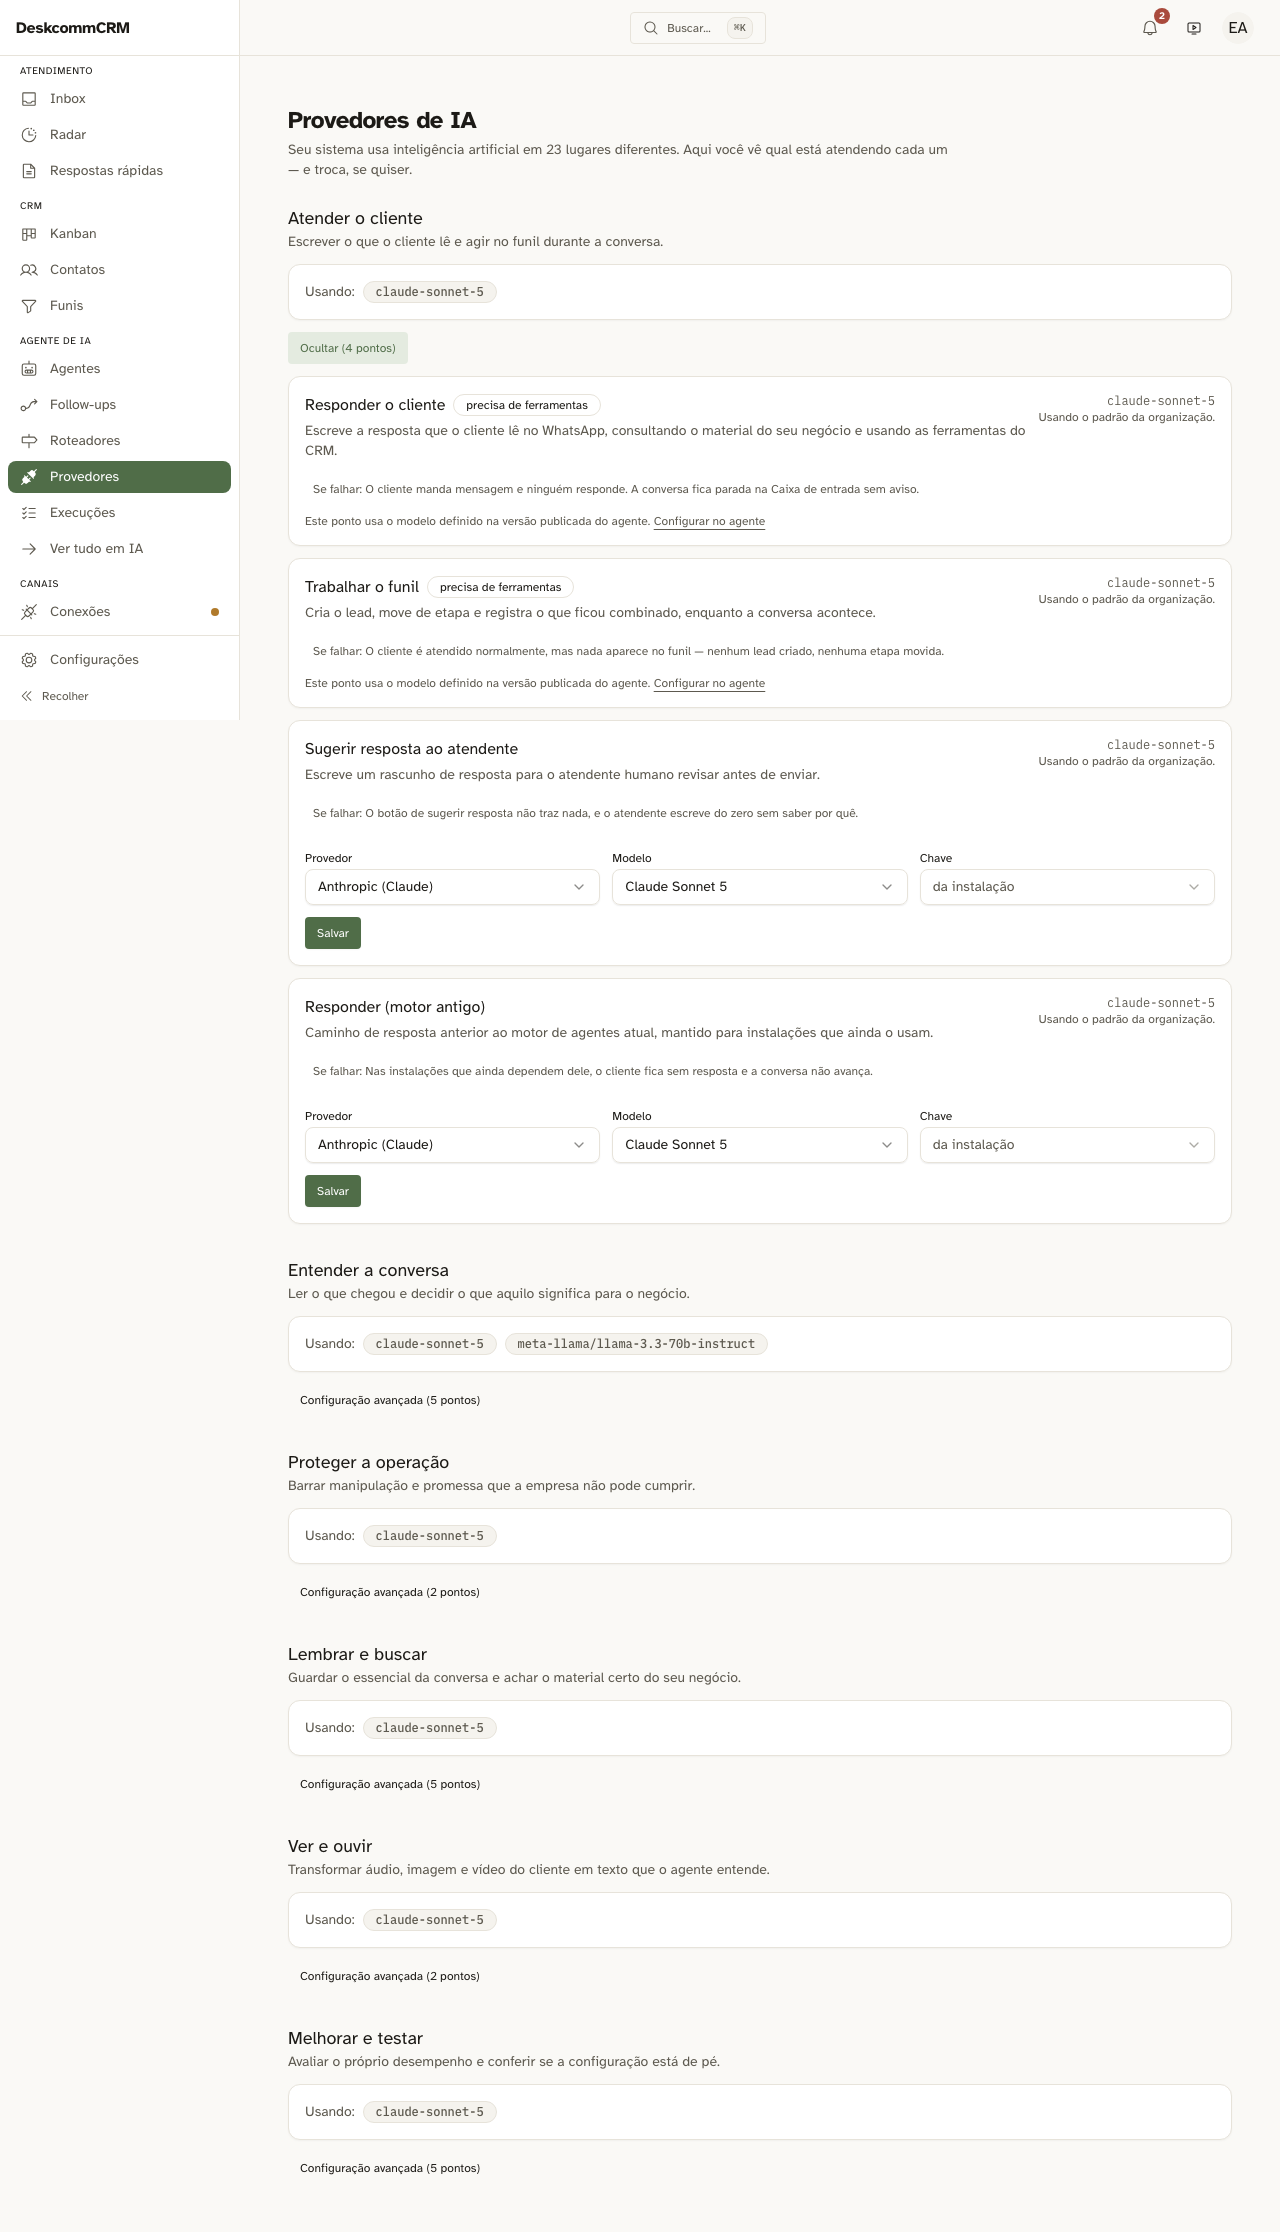
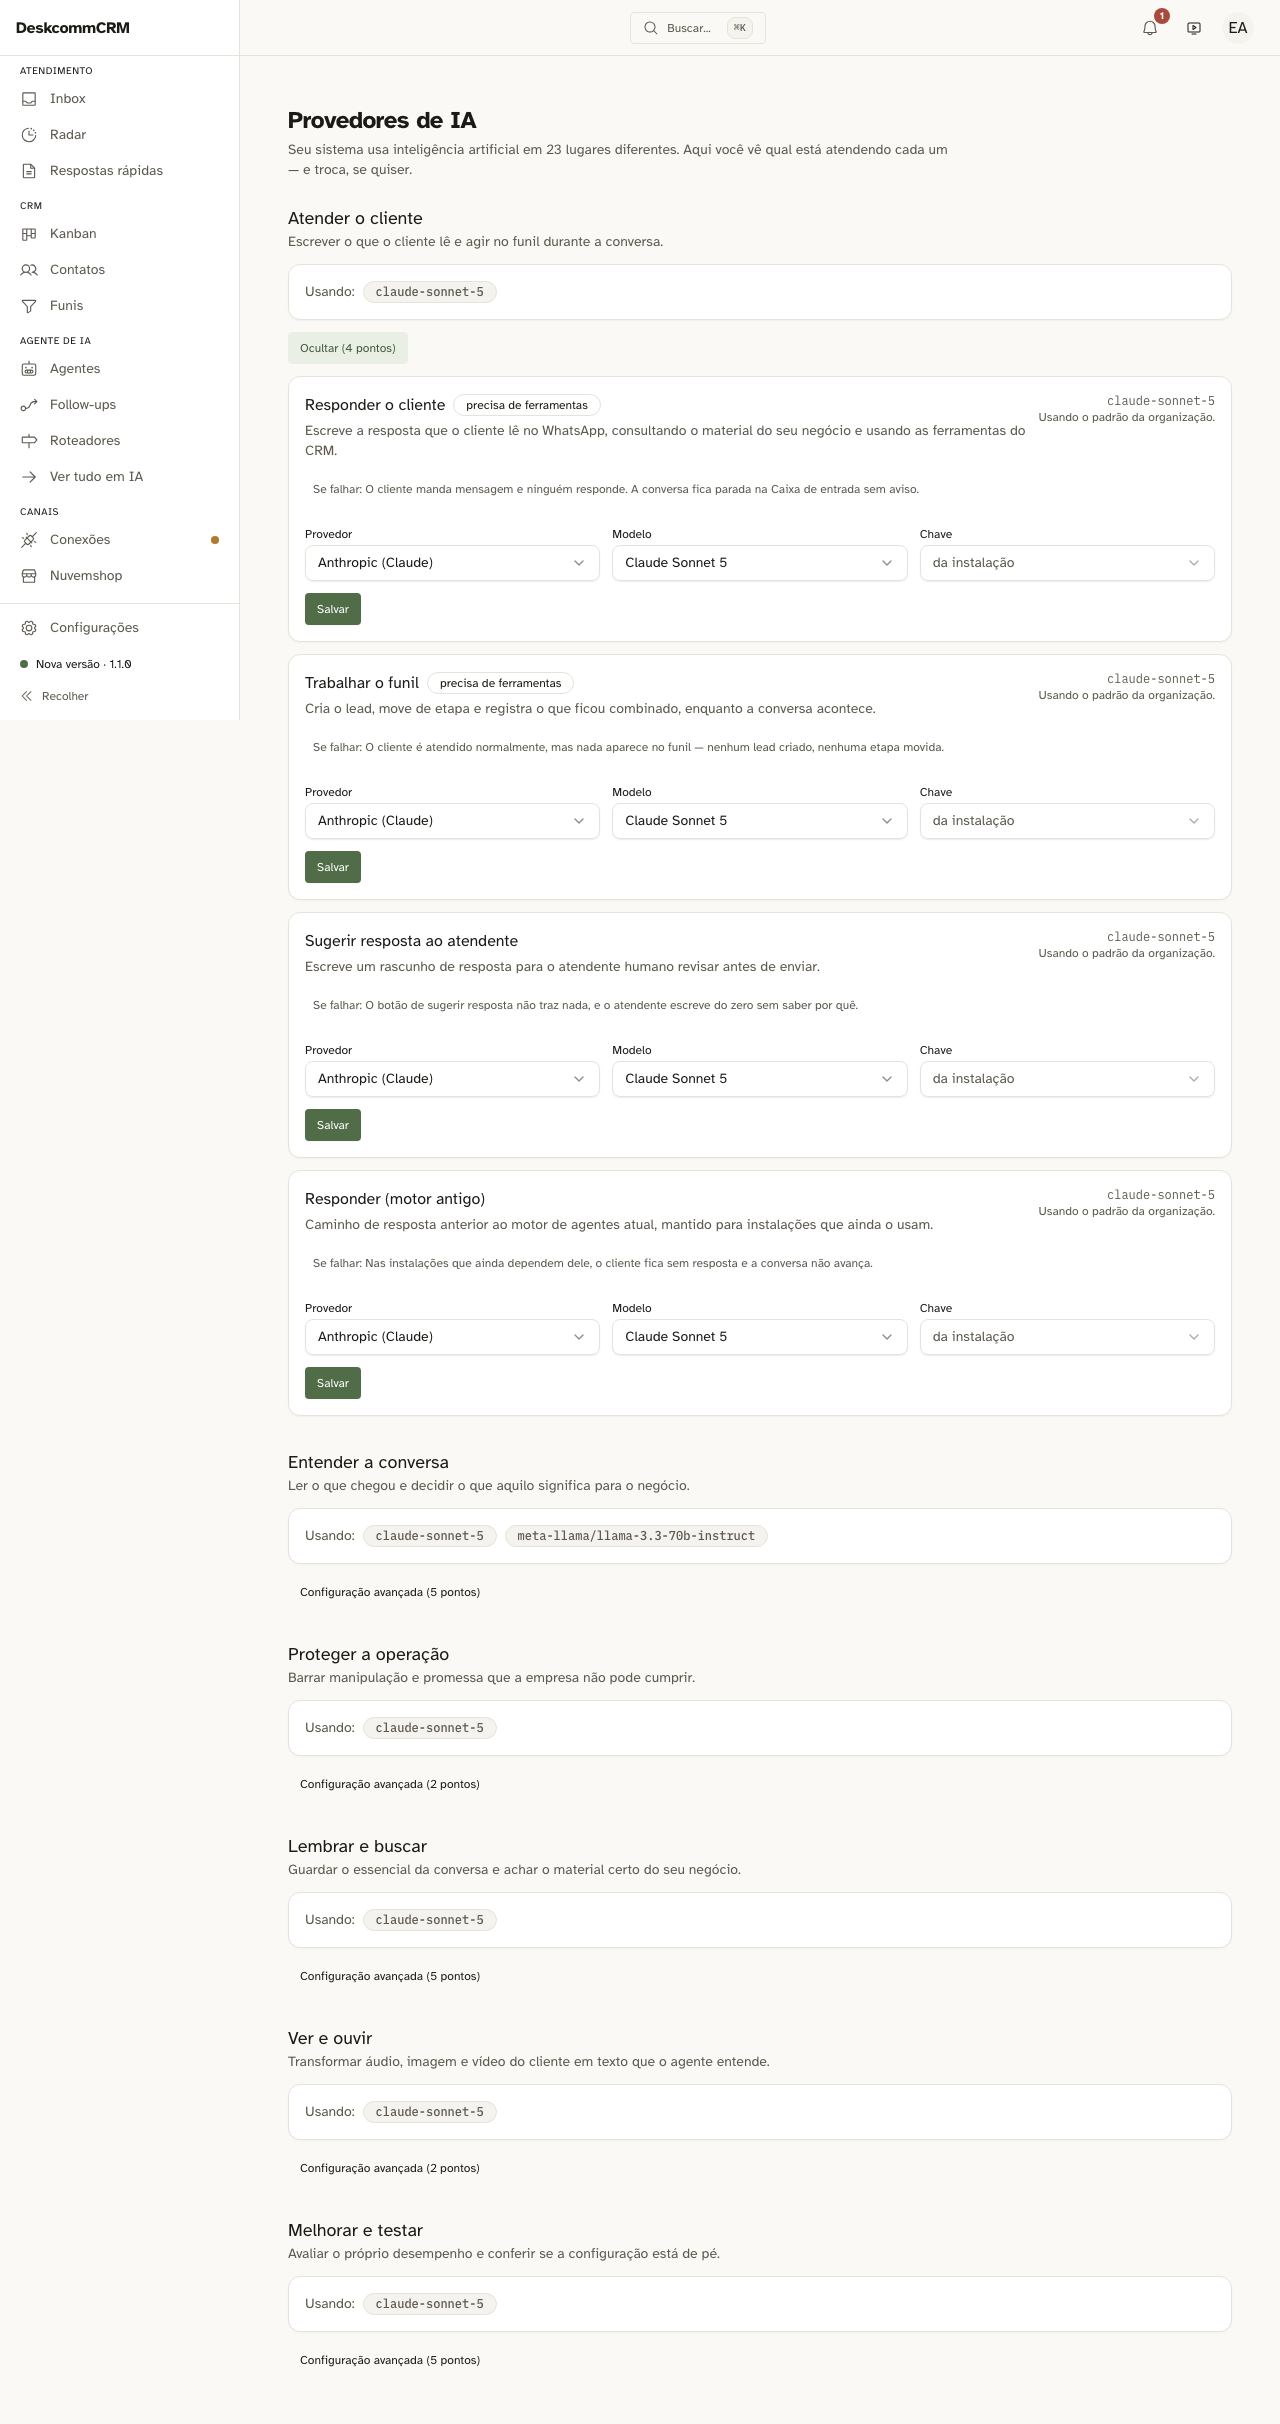
fix(ia): a troca de modelo nao era auditada — 22P02 engolido pelo fire-and-forget
Achado DIRIGINDO A TELA, que e o unico jeito de ter achado: nenhum gate
assertava a linha de auditoria, e o erro so aparece no log do servidor.

    [audit] insert error invalid input syntax for type uuid: "stage_classifier"
            { action: 'ai.purpose_binding_updated' }

`api_audit_log.resource_id` e **uuid**; a rota mandava `corpo.purpose`, que
e texto. O insert falhava com 22P02 e, como o audit e fire-and-forget, o
erro nao chegava a lugar nenhum. Resultado: NENHUMA troca de modelo era
auditada — num painel cujo efeito e mudar para onde vao o dinheiro e os
dados do cliente. DoD 5 do repo violado em silencio.

Conserto: `resourceId` recebe o id da LINHA (o upsert passa a devolve-lo) e
o `purpose` vai para o metadata, onde texto e aceito. Guarda em
`provedores-x-registry.test.ts`.

PROVA PELA TELA (DoD 12), em ambiente com o baseline aplicado e as
migrations 0139/0141:

- `prova-painel-provedores.spec.ts` 8/8 verdes, com o erro de audit
  desaparecido do log (0 ocorrencias contra 1 antes).
- Caso novo: numa instalacao SEM agente publicado — o estado de quem acabou
  de instalar — os dois pontos que respondem o cliente ficam EDITAVEIS.
  Antes apareciam sem seletor, dizendo que sao governados por uma versao
  publicada que nao existe. Evidencia em
  `evidence/provedores/08-sem-agente-publicado-destravado.png`: "Responder o
  cliente" e "Trabalhar o funil" com Provedor/Modelo/Chave e botao Salvar.
[…]

diff --git a/tests/e2e/prova-painel-provedores.spec.ts b/tests/e2e/prova-painel-provedores.spec.ts
@@ -30,6 +30,23 @@ import { lerCreds, loginComoAdmin, type CredsE2E } from "./helpers/login-admin";
  */
 let creds: CredsE2E;
 
+/**
+ * 90s por caso, e o motivo é o MFA — não lentidão da tela.
+ *
+ * Cada teste refaz o login no `beforeEach`, e o TOTP tem janela de 30 segundos:
+ * dois logins dentro da mesma janela apresentam o MESMO código, que o GoTrue
+ * recusa como reutilização. O helper trata isso esperando a janela virar
+ * (`login-admin.ts:91`) — e essa espera cabe dentro do timeout padrão de 30s do
+ * Playwright, comendo-o inteiro. O sintoma não é honesto: quem falha é o
+ * primeiro `page.click` depois do login, e a mensagem fala do botão.
+ *
+ * Medido: rodando isolada (`-g F3`), a spec passa em 15s; na suíte, o terceiro
+ * caso estourava sempre. Com o painel medido por instrumento — abrir cada grupo
+ * com 424 modelos no catálogo custa 60–105ms —, não há o que otimizar na tela: o
+ * custo é a janela do segundo fator.
+ */
+test.describe.configure({ timeout: 90_000 });
+
 test.beforeAll(() => {
   creds = lerCreds();
 });
@@ -156,4 +173,34 @@ test("as duas telas têm porta na navegação — pelo hub de IA", async ({ page
   await page.goto("/app/ai");
   await expect(page.getByRole("link", { name: /Provedores/ })).toBeVisible();
   await expect(page.getByRole("link", { name: /Execuções/ })).toBeVisible();
+});
+
+test("instalação sem agente publicado: os dois pontos principais são EDITÁVEIS", async ({ page }) => {
+  // O estado de quem acabou de instalar: nenhuma versão de agente publicada.
+  // Antes deste caso, o painel mostrava `agent_turn` e `operator_turn` sem
+  // seletor, com a frase "usa o modelo definido na versão publicada do agente"
+  // e um link para configurar num lugar vazio — a primeira tela da feature,
+  // travada no primeiro uso. `mandadoPeloAgente` era incondicional; agora
+  // depende de existir publicação, que é a mesma condição do resolvedor.
+  const semPublicado = await page.evaluate(async () => {
+    const r = await fetch("/api/v1/ai/providers");
+    const j = await r.json();
+    const p = (j?.data?.pontos ?? []) as Array<{ id: string; mandadoPeloAgente: boolean }>;
+    return {
+      agent_turn: p.find((x) => x.id === "agent_turn")?.mandadoPeloAgente,
+      operator_turn: p.find((x) => x.id === "operator_turn")?.mandadoPeloAgente,
+      total: p.length,
+    };
+  });
+  // Controle positivo: sem pontos, as duas asserções abaixo passariam vazias.
+  expect(semPublicado.total).toBeGreaterThan(20);
+  expect(semPublicado.agent_turn, "agent_turn continua travado sem agente publicado").toBe(false);
+  expect(semPublicado.operator_turn, "operator_turn continua travado sem agente publicado").toBe(false);
+
+  await page.goto("/app/ai/providers");
+  await page.waitForSelector('[data-testid="painel-de-provedores"]');
+  await page.click('[data-testid="avancado-atender"]');
+  // E a prova PELA TELA: o seletor de provedor daquele ponto existe e responde.
+  await expect(page.locator('[data-testid="provider-agent_turn"]')).toBeVisible();
+  await page.screenshot({ path: "evidence/provedores/08-sem-agente-publicado-destravado.png", fullPage: true });
 });

diff --git a/tests/unit/provedores-x-registry.test.ts b/tests/unit/provedores-x-registry.test.ts
@@ -177,3 +177,38 @@ describe("lista de provedores × os pontos de ESCRITA", () => {
     ).toEqual([]);
   });
 });
+
+/**
+ * A MUTAÇÃO DO PAINEL PRECISA DEIXAR LINHA DE AUDITORIA.
+ *
+ * `api_audit_log.resource_id` é **uuid**. A rota mandava `corpo.purpose`
+ * (`"stage_classifier"`), o INSERT falhava com 22P02 e — como o audit é
+ * fire-and-forget — o erro ia só para o log do servidor:
+ *
+ *     [audit] insert error invalid input syntax for type uuid: "stage_classifier"
+ *
+ * Ou seja: NENHUMA troca de modelo era auditada, num painel cujo efeito é mudar
+ * para onde vão o dinheiro e os dados do cliente. Achado dirigindo a tela — o
+ * DoD 5 do repo exige audit em toda mutação e nada assertava a linha.
+ */
+describe("PUT /api/v1/ai/providers — auditoria", () => {
+  it("o resourceId é o id da linha, não o purpose", async () => {
+    const { readFileSync } = await import("node:fs");
+    const fonte = readFileSync("app/api/v1/ai/providers/route.ts", "utf8");
+    const bloco = fonte.slice(fonte.indexOf("ai.purpose_binding_updated"));
+
+    expect(
+      bloco,
+      "resourceId voltou a receber o purpose — `resource_id` é uuid e o insert do audit morre com 22P02",
+    ).not.toMatch(/resourceId:\s*corpo\.purpose/);
+    expect(bloco).toMatch(/resourceId:\s*\(gravado as \{ id\?: string \}\)\.id/);
+    // E o purpose continua registrado — no metadata, onde texto é aceito.
+    expect(bloco).toMatch(/purpose:\s*corpo\.purpose/);
+  });
+
+  it("o upsert traz o id de volta (senão o resourceId seria sempre null)", async () => {
+    const { readFileSync } = await import("node:fs");
+    const fonte = readFileSync("app/api/v1/ai/providers/route.ts", "utf8");
+    expect(fonte).toMatch(/\.select\("id, purpose, provider, model_id/);
+  });
+});

diff --git a/app/api/v1/ai/providers/route.ts b/app/api/v1/ai/providers/route.ts
@@ -262,7 +262,7 @@ export async function PUT(req: NextRequest): Promise<Response> {
       },
       { onConflict: "organization_id,purpose" },
     )
-    .select("purpose, provider, model_id, credential_id, base_url, is_enabled")
+    .select("id, purpose, provider, model_id, credential_id, base_url, is_enabled")
     .maybeSingle();
 
   if (error) return fail("save_failed", error.message, 500);
@@ -277,11 +277,19 @@ export async function PUT(req: NextRequest): Promise<Response> {
     organizationId: org.orgId,
     actorUserId: user.id,
     resourceType: "ai_purpose_binding",
-    resourceId: corpo.purpose,
+    // O ID DA LINHA, não o `purpose`. `api_audit_log.resource_id` é **uuid**, e
+    // `purpose` é texto (`stage_classifier`): o INSERT falhava com 22P02
+    // (`invalid input syntax for type uuid`) e — como o audit é
+    // fire-and-forget — o erro ia só para o log do servidor. Resultado: NENHUMA
+    // troca de modelo era auditada, num painel cujo efeito é justamente mudar
+    // para onde o dinheiro e os dados do cliente vão. Achado dirigindo a tela;
+    // nenhum gate via, porque nada assertava a linha de auditoria.
+    resourceId: (gravado as { id?: string }).id ?? null,
     // O modelo entra no metadata, a credencial NÃO — só o id dela seria
     // inócuo, mas o hábito de mandar campo de credencial para o audit é o que
     // acaba vazando a chave quando alguém troca o campo de lugar.
     metadata: {
+      purpose: corpo.purpose,
       provider: corpo.provider,
       model_id: corpo.model_id,
       tem_endpoint_proprio: Boolean(corpo.base_url),
